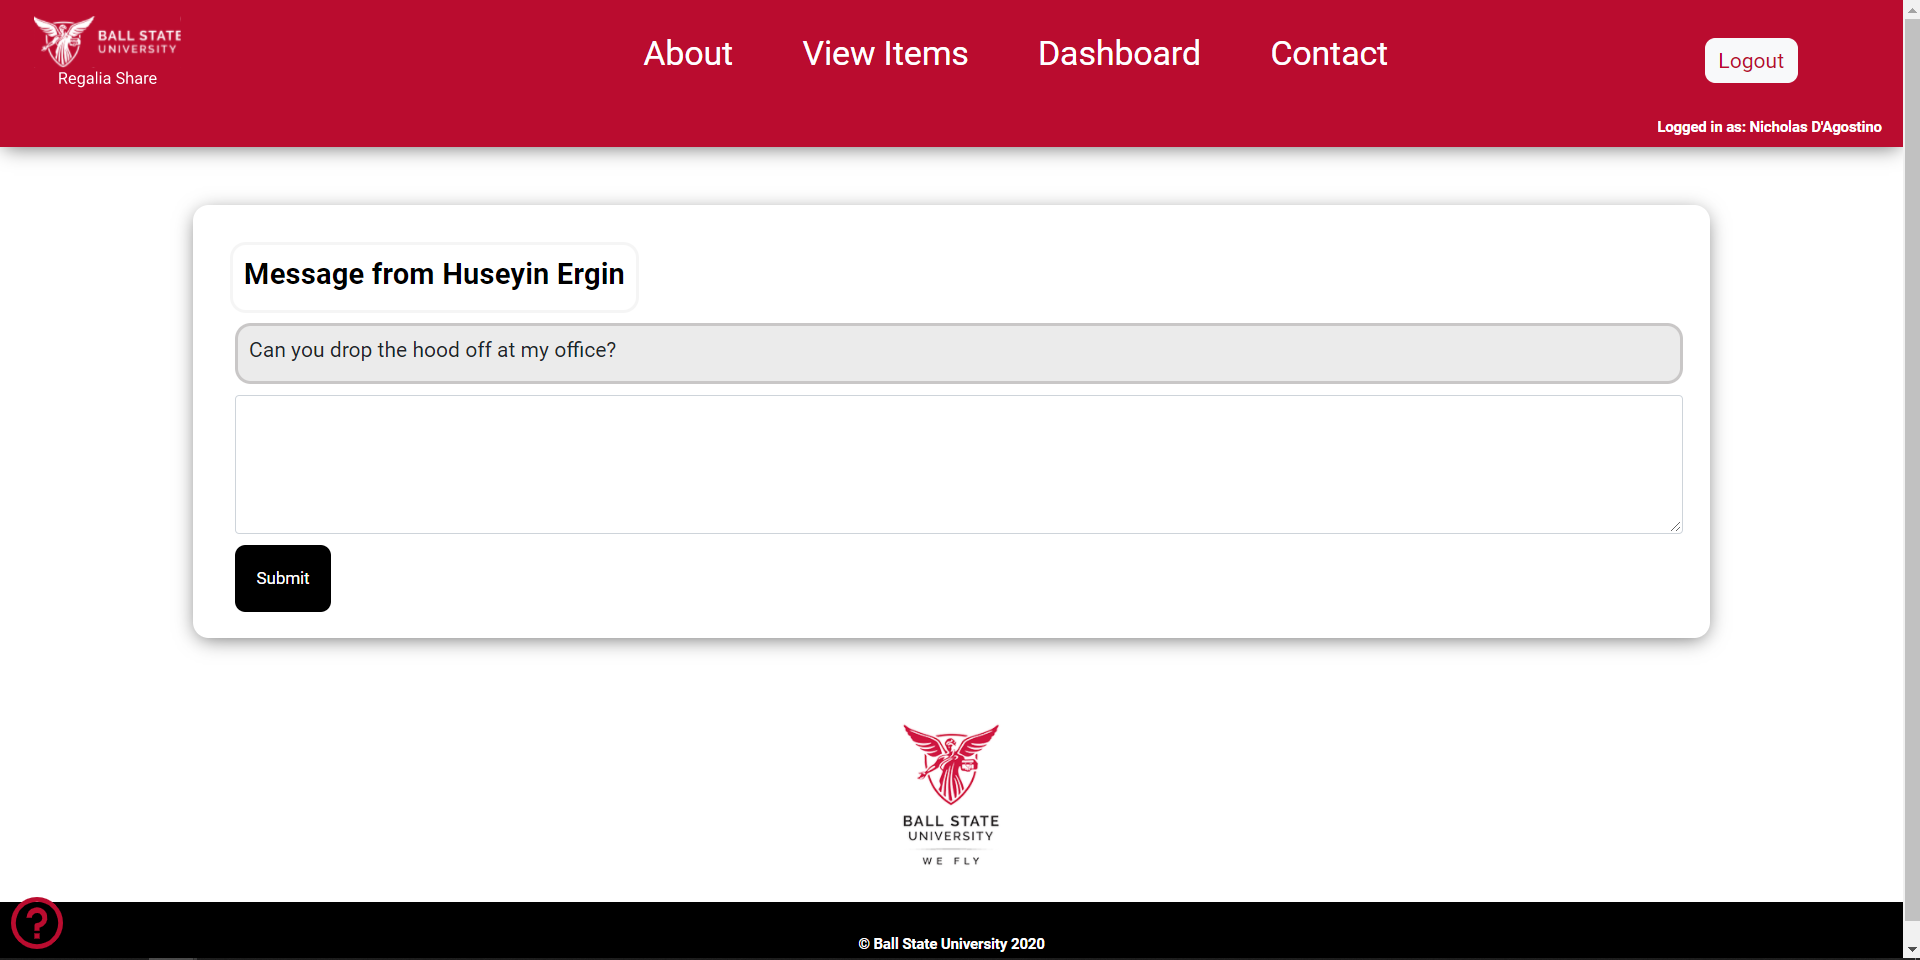
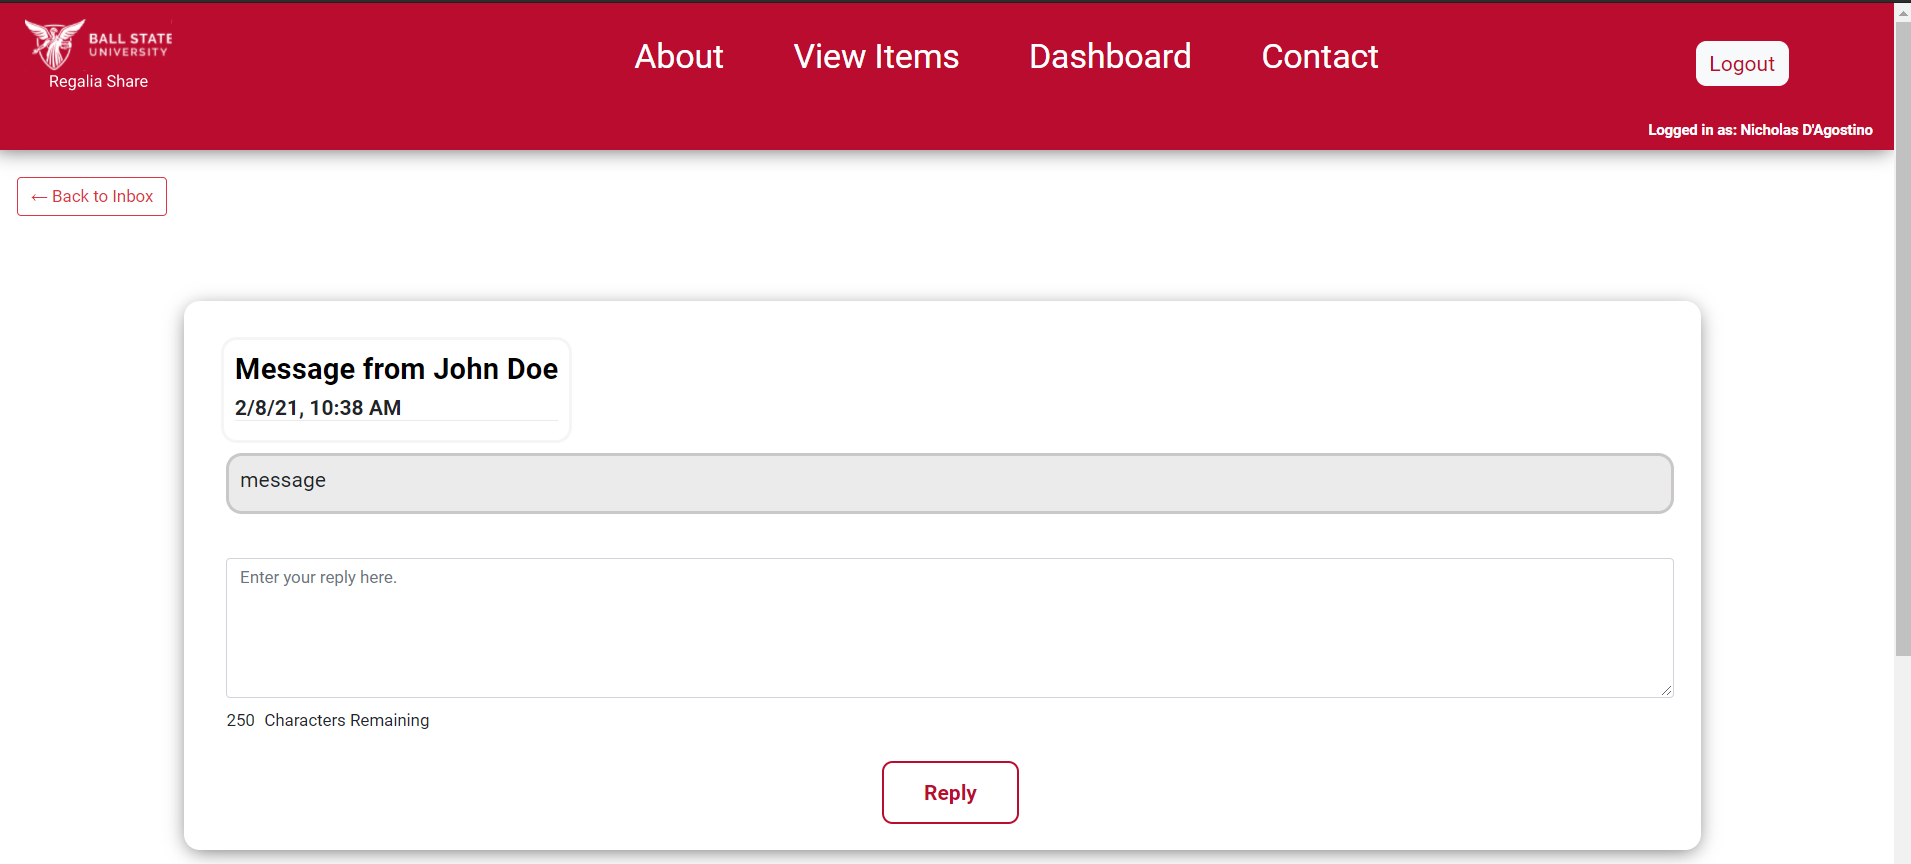
Updates user documentation to reflect UI updates

Changed region(s): [[0.0, 0.25, 1.0, 1.0], [0.0, 0.0, 1.0, 0.1875], [0.0309, 0.2188, 0.0926, 0.25]]

diff --git a/Documentation/User.md b/Documentation/User.md
@@ -3,15 +3,14 @@ In the top right corner of every page will be a "Sign up" button. select the but
 # Sign In
 The landing page of the website will be a Sign In page where you can enter the email and password created in the sign up page. ![signin](UserImages/userImg/signin.png) If you navigate away from the landing page, simply click the ball state logo in the upper left corner, and a sign in button will be in the middle of the page.![homepage](UserImages/userImg/home.PNG)
 # Reserve an Item
-Select the View Items tab in the nav bar to see all available items. You can select between capes robes and hoods here. You can filter between different types of products.![ViewItems](UserImages/userImg/browse.PNG) Once you find an item you wish to reserve, click the view item button. In this view you can get a better look at the item and its details.![Item](UserImages/userImg/viewItem.PNG) If you decide this is the item you want to reserve click the reserve item button.
+Select the View Items tab in the nav bar to see all available items. You can select between capes robes and hoods here. You can filter between different types of products as well as the dates available.![ViewItems](UserImages/userImg/browse.PNG) Once you find an item you wish to reserve, click the view item button. In this view you can get a better look at the item and its details.![Item](UserImages/userImg/viewItem.PNG) If you decide this is the item you want to reserve click the reserve item button.
 # List an Item
-Select the Dashboard tab in the nav bar and from there select My Listings option.![Dasboard](UserImages/userImg/dashboard.PNG) ![MyListings](UserImages/userImg/myListings.PNG) Then click the List a new Item button. Here you can enter any information needed as well as upload a picture if desired.![NewListing](UserImages/userImg/listitem.png)
+Select the Dashboard tab in the nav bar and from there select My Listings option.![Dasboard](UserImages/userImg/Dashboard.PNG) ![MyListings](UserImages/userImg/myListings.PNG) Then click the List a new Item button. Here you can enter any information needed as well as upload a picture if desired.![NewListing](UserImages/userImg/listitem.png)
 # Contact an Admin
 Select the Contact tab in the nav bar to see a form that can be filled out and sent to an admin. ![Contact](UserImages/userImg/contact.PNG)
 # Check Reservations
 Select the Dashboard tab in the nav bar and select the My Reservations option. From here you will see the status of your reservations.![Reservation](UserImages/userImg/myReservations.PNG) You can click on an of them to see more details on the item and reservation.
-# Creating a Messaging
-After reserving an item select the Dashboard tab in the nav bar, then select the View all reservations button. From there select the view button next to the items whose owner you wish to contact. From there select the message button, and you will be brought to a page that contains a text box where you can send a message to the owner.
+# Creating a Message
+Select the Dashboard tab in the nav bar and then select view all messages. ![Messages](UserImages/userImg/Messages.png) From there click the new message button. ![NewMessage](UserImages/userImg/NewMessage.png) You can select the user you would like to message in the drop down, and then type the message in the field below. You can now view the message by clicking the sent messages tab below the messages header
 # Replying to a Message
 Select the Dashboard Tab in the nav bar and then select view all messages. From there you can select the message you wish to reply to by clicking the view option.![MessageReply](UserImages/userImg/MessageReply.png) From there you will be taken to a page that has the message sent to you as well as a text box to type your reply. 
-
